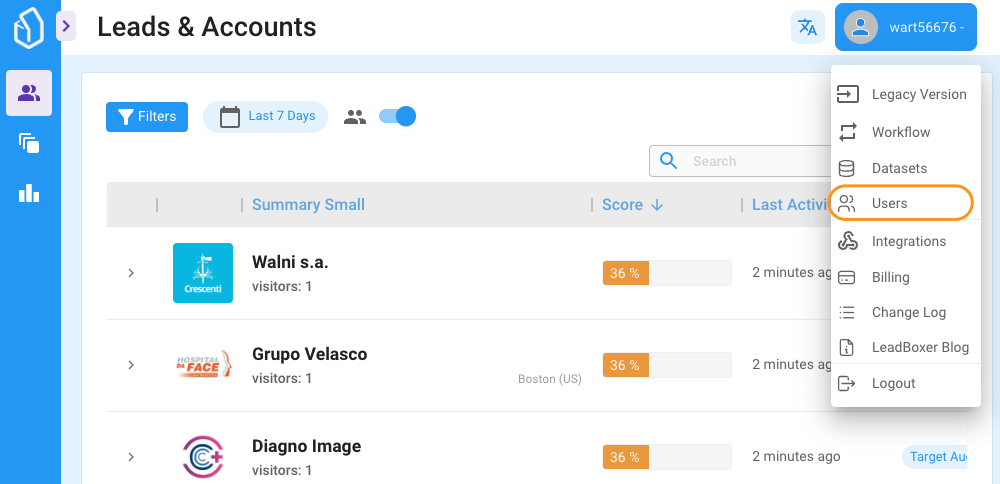
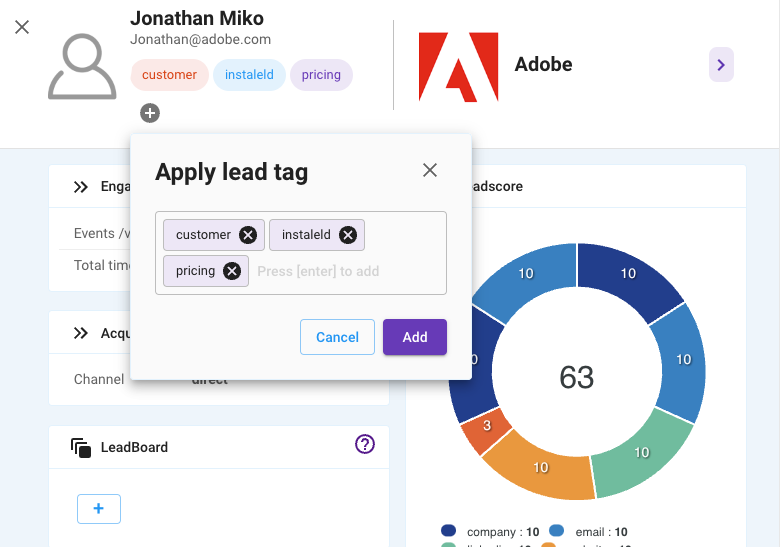
GITBOOK-134: change request with no subject merged in GitBook

diff --git a/fundamentals/elements/import-and-export/upload-leads.md b/fundamentals/elements/import-and-export/upload-leads.md
@@ -1,0 +1,17 @@
+# Upload Leads
+
+You can upload your leads by using the upload feature directly on the [Leads & Accounts](../../projects.md) page.
+
+<figure><img src="../../../.gitbook/assets/LeadBoxer_App (1).png" alt=""><figcaption></figcaption></figure>
+
+1. Start by downloading the sample CSV file, to see how the list needs to be structured. The most important fields is companyDomain, as this is the best way for us to enrich your leads wit firmographic data.
+2. Paste your leads into the sample file or format your list int the right format and store locally.
+3. Set the tags that you want these leads to have. It is good practice to tag them with a generic  <mark style="background-color:green;">imported</mark> tag but also with a specific tag like <mark style="background-color:orange;">event-2023</mark> so you can later easily select and edit them.&#x20;
+4. Select your CSV file with the Leads to upload.
+5. Click Upload.
+
+<figure><img src="../../../.gitbook/assets/LeadBoxer_App.png" alt=""><figcaption></figcaption></figure>
+
+Once you have hit upload, your list will be processed in the background and depending on the size it will be done in a few minutes.
+
+Leads will appear in the Leads & Accounts page, and can also be put automatically on your [LeadBoard](../../tasks.md) if you have set this up via an automated LeadBoard import or via [Workflow Automation](../workflow-automation.md).

diff --git a/extras/changelog.md b/extras/changelog.md
@@ -10,11 +10,11 @@ description: >-
 
 ## New Tag options
 
-<figure><img src="../.gitbook/assets/LeadBoxer_App.png" alt=""><figcaption></figcaption></figure>
+<figure><img src="../.gitbook/assets/LeadBoxer_App (3).png" alt=""><figcaption></figcaption></figure>
 
 You can now manually add tags from 2 places: from the lead details window, but also from the leads & accounts list.
 
-<figure><img src="../.gitbook/assets/LeadBoxer_App (1).png" alt=""><figcaption></figcaption></figure>
+<figure><img src="../.gitbook/assets/LeadBoxer_App (1) (5).png" alt=""><figcaption></figcaption></figure>
 
 To read more on Lead Tags, see the [Lead tags documentation](../fundamentals/elements/lead-tags.md) page.
 

diff --git a/SUMMARY.md b/SUMMARY.md
@@ -24,6 +24,7 @@
   * [Leadscore](fundamentals/elements/leadscore.md)
   * [Lead Tags](fundamentals/elements/lead-tags.md)
   * [Import & Export](fundamentals/elements/import-and-export/README.md)
+    * [Upload Leads](fundamentals/elements/import-and-export/upload-leads.md)
     * [download data](fundamentals/elements/import-and-export/download-data.md)
     * [LinkedIn Matched Audiences export](fundamentals/elements/import-and-export/linkedin-matched-audiences-export.md)
     * [Custom Properties](fundamentals/elements/import-and-export/custom-properties.md)

diff --git a/getting-started.md b/getting-started.md
@@ -36,7 +36,8 @@ The main benefit is that we can identify those email recipients when they visit 
 
 NOTE: LeadBoxer Email Tracking consists of 2 separate elements. Meaning there are two steps needed to get everything setup:
 
-Tracking email opens and clicks Identifying leads and customers by name when they visit your website.&#x20;
+1. Tracking email opens and&#x20;
+2. clicks Identifying leads and customers by name when they visit your website
 
 Top integrations/ tutorials:
 

diff --git a/guides/how-to-add-a-user.md b/guides/how-to-add-a-user.md
@@ -9,7 +9,7 @@ Note: you need to have admin permissions to be able to add or modify users
 1. Login to your account&#x20;
 2. Under your name drop-down select **Users**
 
-<figure><img src="../.gitbook/assets/LeadBoxer_App (3).png" alt=""><figcaption></figcaption></figure>
+<figure><img src="../.gitbook/assets/LeadBoxer_App (3) (2).png" alt=""><figcaption></figcaption></figure>
 
 3. On the user management page click **'Add a User'**
 4. Enter details of your colleague&#x20;
